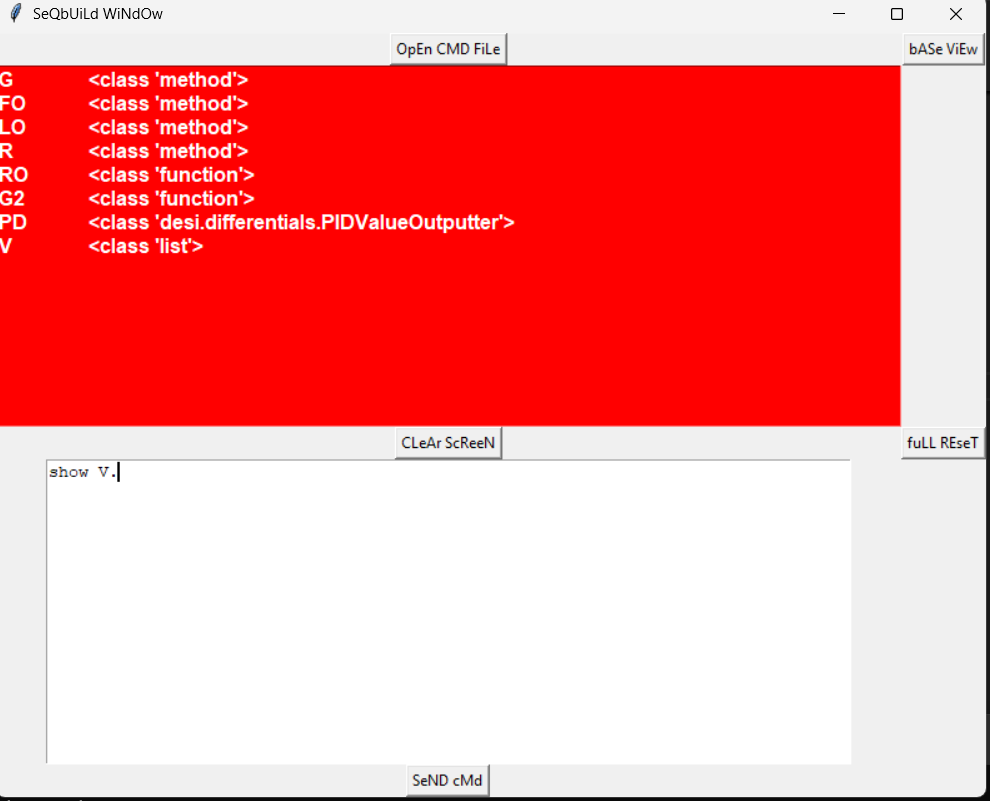
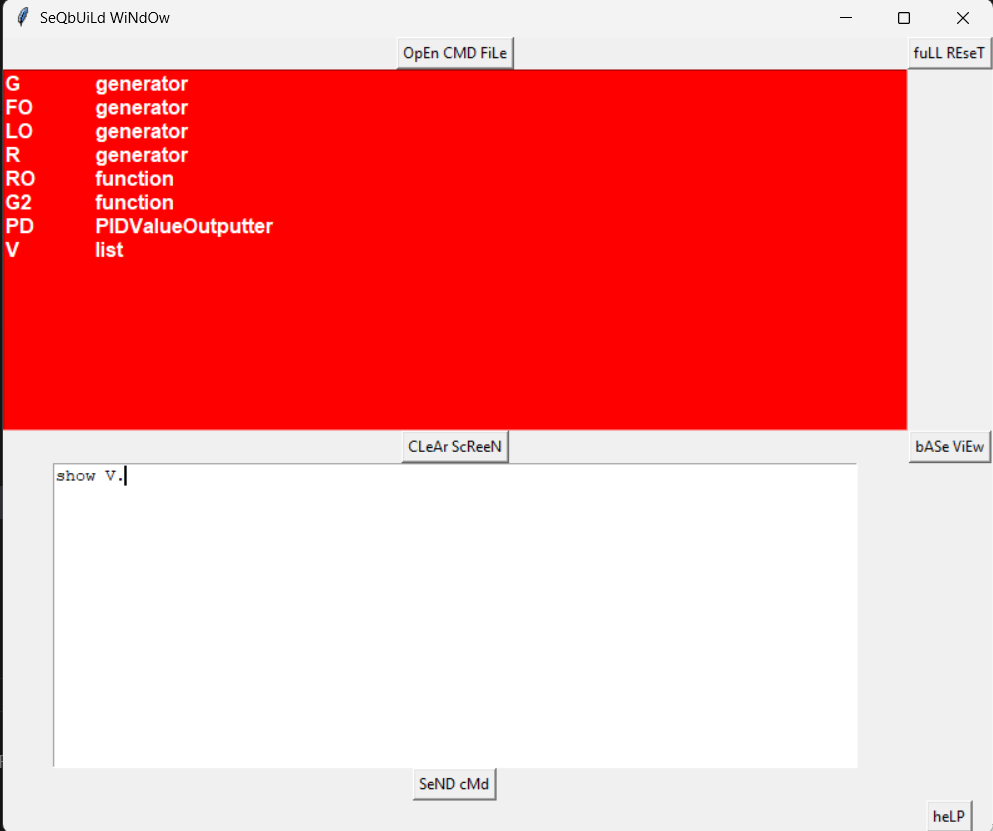
more work with file<commlang_guide>

Changed region(s): [[0.0, 0.0, 1.0, 1.0]]

diff --git a/face/sample_script/commlang_guide.md b/face/sample_script/commlang_guide.md
@@ -288,3 +288,14 @@ processed by the Comm Lang parser during the session.
 
 ![Local Image](seqbuild_base_screen.png)  
 
+If user does not recall Comm Lang syntax, they can press the `heLP` button.  
+
+![Local Image](seqbuild_help_screen.png)  
+
+If user wants to know syntax and description for a keyword or structure, user 
+can type `help keyword` in the QUERY window.  
+
+![Local Image](seqbuild_help_cmd.png)  
+
+![Local Image](seqbuild_help_make.png)  
+
